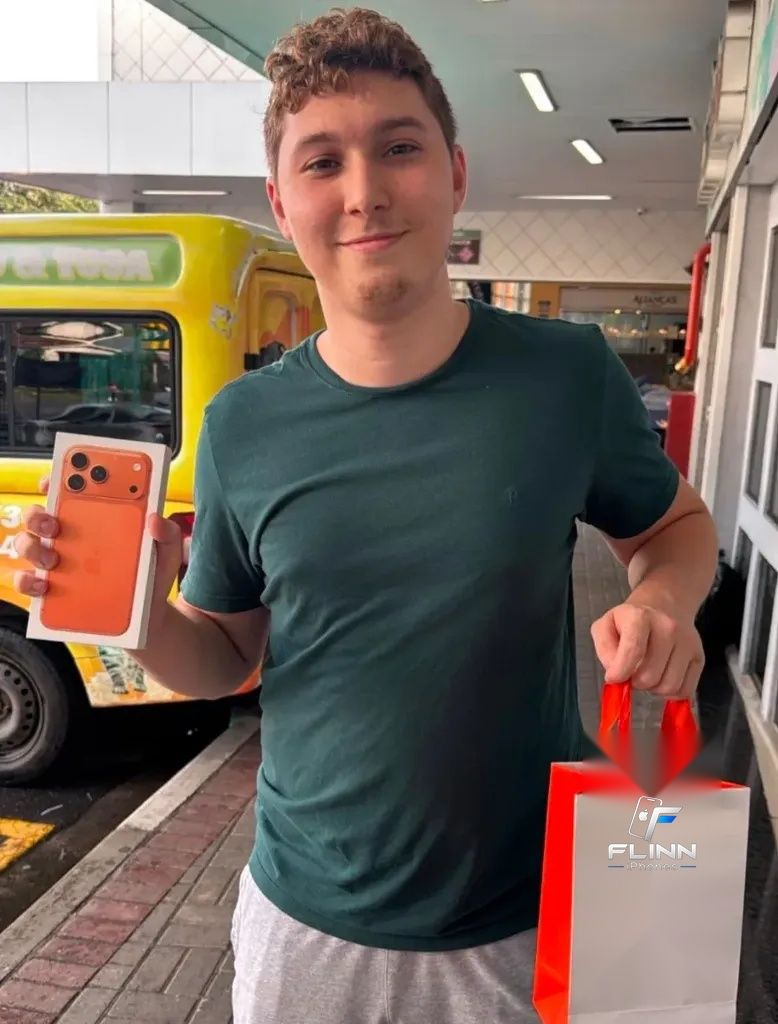
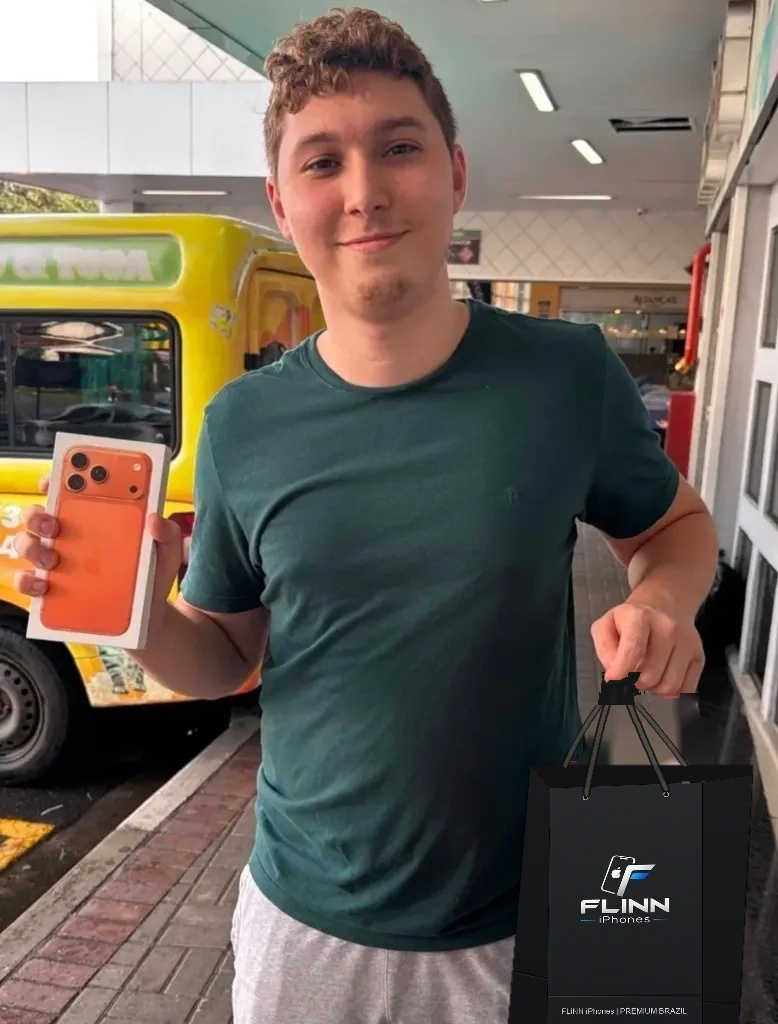
Add files via upload

Changed region(s): [[0.6478, 0.6562, 0.9871, 1.0]]

diff --git a/FLINN-IPHONES-UPLOAD-GITHUB/public/index.html b/FLINN-IPHONES-UPLOAD-GITHUB/public/index.html
@@ -220,11 +220,11 @@
       <!-- Pricing Callout: Baseado exatamente na sua tabela -->
       <div class="inline-flex flex-col sm:flex-row items-center justify-center gap-1.5 sm:gap-4 px-5 py-2.5 rounded-2xl bg-black/60 border border-brand-blue/40 backdrop-blur-md mb-6 shadow-neon-sm">
         <div class="text-xs sm:text-sm text-slate-300">
-          A partir de <strong class="text-white text-lg sm:text-2xl font-mono ml-1 font-black">R$ 9.200,00</strong> à vista
+          A partir de <strong class="text-white text-lg sm:text-2xl font-mono ml-1 font-black">R$ 9.055,46</strong> à vista
         </div>
         <div class="hidden sm:block text-slate-600">|</div>
         <div class="text-xs sm:text-sm text-brand-blue font-bold">
-          ou em até <strong class="font-mono text-base sm:text-xl">12x de R$ 766,66</strong> <span class="text-cyan-400 font-semibold">sem juros</span>
+          ou em até <strong class="font-mono text-base sm:text-xl">12x de R$ 754,62</strong> <span class="text-cyan-400 font-semibold">sem juros</span>
         </div>
       </div>
 
@@ -255,21 +255,21 @@
 
         <div class="relative flex items-center justify-center gap-2 sm:gap-6 py-2">
           <!-- Bordô Metálico (Left angle) -->
-          <div class="w-1/3 max-w-[190px] transform -rotate-3 hover:rotate-0 hover:scale-105 transition-all duration-500 cursor-pointer text-center" onclick="openLightbox('/assets/iphone18-bordo.png', 'iPhone 18 Pro Max - Bordô Metálico')">
-            <img src="/assets/iphone18-bordo.png" alt="iPhone 18 Bordô" class="w-full h-auto drop-shadow-[0_20px_25px_rgba(0,0,0,0.8)] mx-auto">
+          <div class="w-1/3 max-w-[190px] transform -rotate-3 hover:rotate-0 hover:scale-105 transition-all duration-500 cursor-pointer text-center" onclick="openLightbox('/assets/ip18_burgundy.png', 'iPhone 18 Pro Max - Bordô Metálico')">
+            <img src="/assets/ip18_burgundy.png" alt="iPhone 18 Bordô" class="w-full h-auto drop-shadow-[0_20px_25px_rgba(0,0,0,0.8)] mx-auto">
             <span class="block text-[10px] sm:text-xs text-slate-400 font-semibold mt-2">Bordô Metálico</span>
           </div>
 
-          <!-- Titânio Copper (Center Flagship) -->
-          <div class="w-1/3 max-w-[220px] z-10 transform scale-110 hover:scale-115 transition-all duration-500 cursor-pointer text-center" onclick="openLightbox('/assets/iphone18-copper.png', 'iPhone 18 Pro Max - Titânio Copper')">
-            <img src="/assets/iphone18-copper.png" alt="iPhone 18 Copper" class="w-full h-auto drop-shadow-[0_25px_35px_rgba(2,124,240,0.35)] mx-auto">
-            <span class="inline-block text-[10px] sm:text-xs text-white font-bold bg-brand-blue/20 border border-brand-blue/40 px-2.5 py-0.5 rounded-full mt-2">Titânio Copper</span>
+          <!-- Azul Glacial (Center Flagship) -->
+          <div class="w-1/3 max-w-[220px] z-10 transform scale-110 hover:scale-115 transition-all duration-500 cursor-pointer text-center" onclick="openLightbox('/assets/ip18_glacier.png', 'iPhone 18 Pro Max - Azul Glacial')">
+            <img src="/assets/ip18_glacier.png" alt="iPhone 18 Copper" class="w-full h-auto drop-shadow-[0_25px_35px_rgba(2,124,240,0.35)] mx-auto">
+            <span class="inline-block text-[10px] sm:text-xs text-white font-bold bg-brand-blue/20 border border-brand-blue/40 px-2.5 py-0.5 rounded-full mt-2">Azul Glacial</span>
           </div>
 
-          <!-- Deep Purple (Right angle) -->
-          <div class="w-1/3 max-w-[190px] transform rotate-3 hover:rotate-0 hover:scale-105 transition-all duration-500 cursor-pointer text-center" onclick="openLightbox('/assets/iphone18-purple.png', 'iPhone 18 Pro Max - Deep Purple')">
-            <img src="/assets/iphone18-purple.png" alt="iPhone 18 Purple" class="w-full h-auto drop-shadow-[0_20px_25px_rgba(0,0,0,0.8)] mx-auto">
-            <span class="block text-[10px] sm:text-xs text-slate-400 font-semibold mt-2">Deep Purple</span>
+          <!-- Preto Titânio (Right angle) -->
+          <div class="w-1/3 max-w-[190px] transform rotate-3 hover:rotate-0 hover:scale-105 transition-all duration-500 cursor-pointer text-center" onclick="openLightbox('/assets/ip18_black.png', 'iPhone 18 Pro Max - Preto Titânio')">
+            <img src="/assets/ip18_black.png" alt="iPhone 18 Purple" class="w-full h-auto drop-shadow-[0_20px_25px_rgba(0,0,0,0.8)] mx-auto">
+            <span class="block text-[10px] sm:text-xs text-slate-400 font-semibold mt-2">Preto Titânio</span>
           </div>
         </div>
 
@@ -464,7 +464,7 @@
           <div>
             <label class="block text-xs font-bold text-slate-300 uppercase mb-1.5">Qual modelo você quer pegar?</label>
             <select id="trade-target-phone" class="w-full bg-black/60 border border-brand-border rounded-xl px-4 py-2.5 text-xs sm:text-sm text-white focus:outline-none focus:border-brand-blue">
-              <option value="iPhone 18 Pro Max 256GB">iPhone 18 Pro Max 256GB (R$ 9.200)</option>
+              <option value="iPhone 18 Pro Max 256GB">iPhone 18 Pro Max 256GB (R$ 9.055,46)</option>
               <option value="iPhone 18 Pro Max 512GB">iPhone 18 Pro Max 512GB (R$ 9.700)</option>
               <option value="iPhone 18 Pro 256GB">iPhone 18 Pro 256GB (R$ 8.300)</option>
               <option value="iPhone 18 Pro 512GB">iPhone 18 Pro 512GB (R$ 8.800)</option>
@@ -522,7 +522,7 @@
               Design Revolucionário em Titânio com Módulo Visor
             </h3>
             <p class="text-xs sm:text-sm text-slate-300 line-clamp-2 sm:line-clamp-none leading-relaxed">
-              Cores exclusivas Titânio Copper, Bordô Metálico e Deep Purple. Câmera tripla de 48MP com zoom aprimorado e chip A19 Pro. 100% lacrados com 1 ano de garantia oficial Apple.
+              Cores exclusivas Azul Glacial, Bordô Metálico e Preto Titânio. Câmera tripla de 48MP com zoom aprimorado e chip A19 Pro. 100% lacrados com 1 ano de garantia oficial Apple.
             </p>
             
             <div class="pt-2 flex flex-col sm:flex-row items-start sm:items-center gap-3">

diff --git a/FLINN-IPHONES-UPLOAD-GITHUB/public/script.js b/FLINN-IPHONES-UPLOAD-GITHUB/public/script.js
@@ -23,13 +23,14 @@ const PRODUCTS = [
     warranty: "1 Ano Garantia Apple",
     maxInstallments: 12,
     storages: [
-      { capacity: "256GB", price: 9200, formattedPrice: "R$ 9.200,00", installment: "12x de R$ 766,66" },
-      { capacity: "512GB", price: 9700, formattedPrice: "R$ 9.700,00", installment: "12x de R$ 808,33" }
+      { capacity: "256GB", price: 9055.46, formattedPrice: "R$ 9.055,46", installment: "12x de R$ 754,62" },
+      { capacity: "512GB", price: 9855.46, formattedPrice: "R$ 9.855,46", installment: "12x de R$ 821,28" }
     ],
     colors: [
-      { name: "Titânio Copper / Laranja", hex: "#b86a34", image: "/assets/iphone18-copper.png" },
-      { name: "Bordô Metálico / Vinho", hex: "#7a2232", image: "/assets/iphone18-bordo.png" },
-      { name: "Deep Purple / Azul Titânio", hex: "#4a3c68", image: "/assets/iphone18-purple.png" }
+      { name: "Bordô Metálico", hex: "#5c1d2e", image: "/assets/ip18_burgundy.png" },
+      { name: "Azul Glacial", hex: "#8aa8be", image: "/assets/ip18_glacier.png" },
+      { name: "Prata Titânio", hex: "#e2e4e6", image: "/assets/ip18_silver.png" },
+      { name: "Preto Titânio", hex: "#252528", image: "/assets/ip18_black.png" }
     ],
     selectedStorageIndex: 0,
     selectedColorIndex: 0
@@ -44,13 +45,14 @@ const PRODUCTS = [
     warranty: "1 Ano Garantia Apple",
     maxInstallments: 12,
     storages: [
-      { capacity: "256GB", price: 8300, formattedPrice: "R$ 8.300,00", installment: "12x de R$ 691,66" },
-      { capacity: "512GB", price: 8800, formattedPrice: "R$ 8.800,00", installment: "12x de R$ 733,33" }
+      { capacity: "256GB", price: 9055.46, formattedPrice: "R$ 9.055,46", installment: "12x de R$ 754,62" },
+      { capacity: "512GB", price: 9655.46, formattedPrice: "R$ 9.655,46", installment: "12x de R$ 804,62" }
     ],
     colors: [
-      { name: "Titânio Copper / Laranja", hex: "#b86a34", image: "/assets/iphone18-copper.png" },
-      { name: "Bordô Metálico / Vinho", hex: "#7a2232", image: "/assets/iphone18-bordo.png" },
-      { name: "Deep Purple / Azul", hex: "#4a3c68", image: "/assets/iphone18-purple.png" }
+      { name: "Bordô Metálico", hex: "#5c1d2e", image: "/assets/ip18_burgundy.png" },
+      { name: "Azul Glacial", hex: "#8aa8be", image: "/assets/ip18_glacier.png" },
+      { name: "Prata Titânio", hex: "#e2e4e6", image: "/assets/ip18_silver.png" },
+      { name: "Preto Titânio", hex: "#252528", image: "/assets/ip18_black.png" }
     ],
     selectedStorageIndex: 0,
     selectedColorIndex: 0
@@ -176,9 +178,9 @@ const PRODUCTS = [
       { capacity: "49mm GPS + Cell", price: 3900, formattedPrice: "R$ 3.900,00", installment: "6x de R$ 650,00" }
     ],
     colors: [
-      { name: "Pulseira Laranja Titânio", hex: "#ff6200", image: "/assets/clean_watch_crop.png" },
-      { name: "Pulseira Azul Oceano", hex: "#2563eb", image: "/assets/clean_watch_blue.png" },
-      { name: "Pulseira Meia-Noite Preta", hex: "#1e293b", image: "/assets/clean_watch_black.png" }
+      { name: "Pulseira Laranja Titânio", hex: "#ff6200", image: "/assets/watch_orange.png" },
+      { name: "Pulseira Azul Oceano", hex: "#2563eb", image: "/assets/watch_blue.png" },
+      { name: "Pulseira Meia-Noite Preta", hex: "#1e293b", image: "/assets/watch_black.png" }
     ],
     selectedStorageIndex: 0,
     selectedColorIndex: 0
@@ -214,7 +216,9 @@ const PRODUCTS = [
       { capacity: "Novos & Lacrados", price: null, formattedPrice: "Consulte Valores", installment: "Pronta Entrega" }
     ],
     colors: [
-      { name: "Linha Genuína Apple", hex: "#ffffff", image: "/assets/clean_airpods_pro.png" }
+      { name: "Fones AirPods Pro 2", hex: "#ffffff", image: "/assets/airpods_earbuds.png" },
+      { name: "Estojo MagSafe Dark", hex: "#111827", image: "/assets/airpods_case_dark.jpg" },
+      { name: "Conexão Instantânea", hex: "#2563eb", image: "/assets/airpods_popup.jpg" }
     ],
     selectedStorageIndex: 0,
     selectedColorIndex: 0
